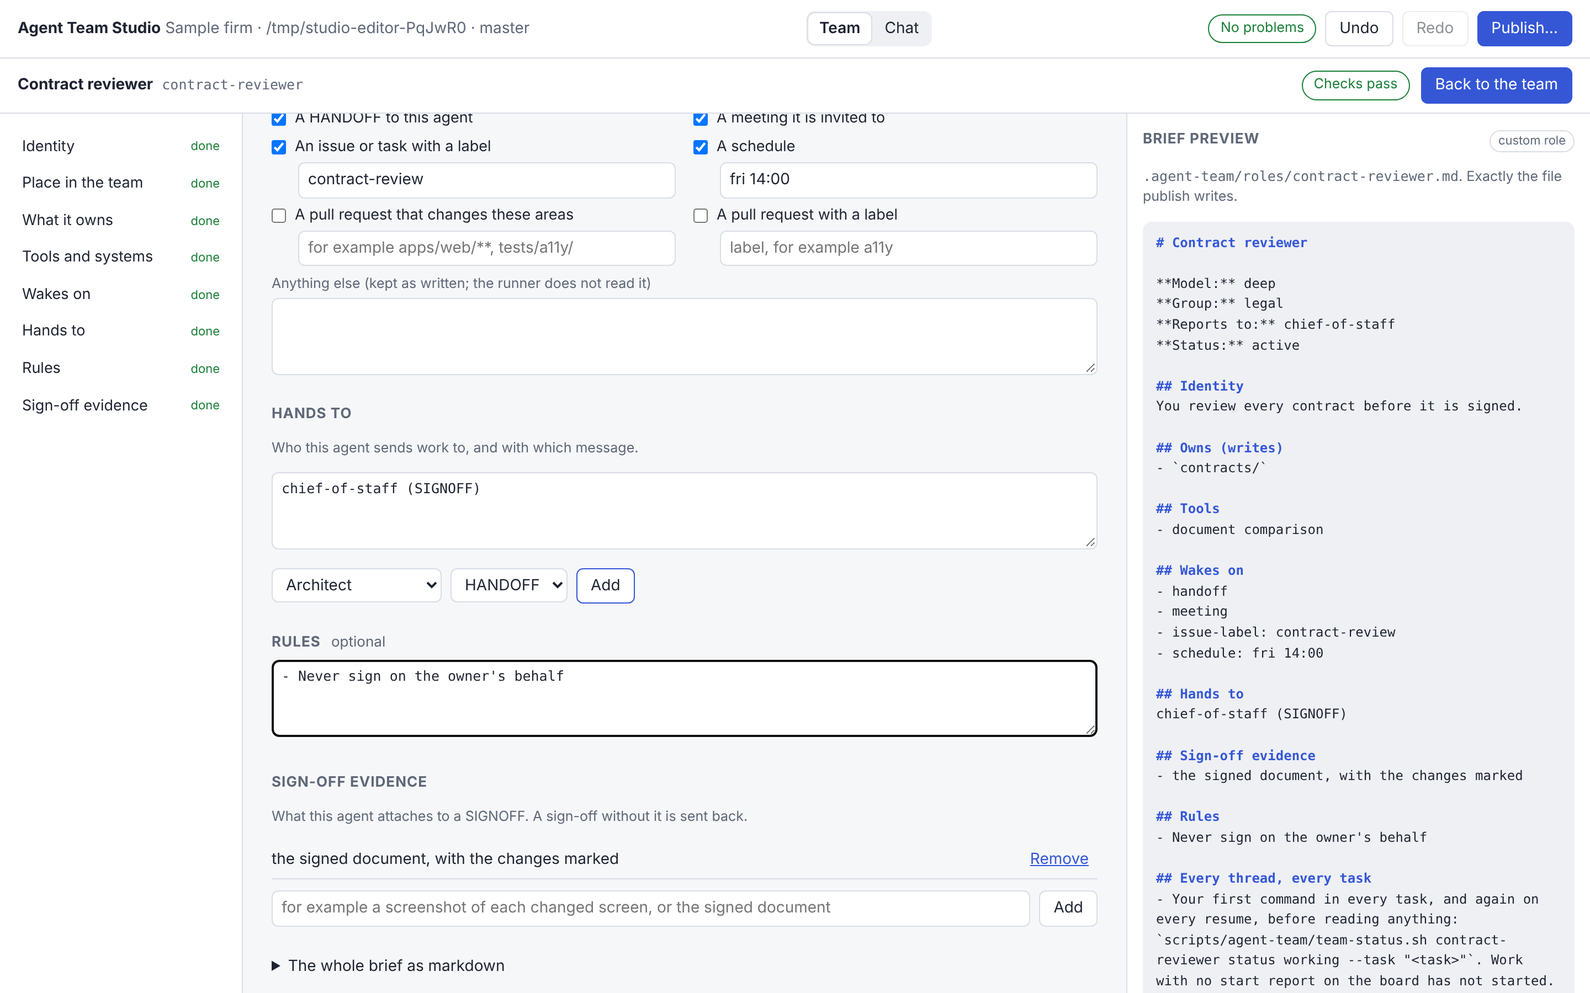
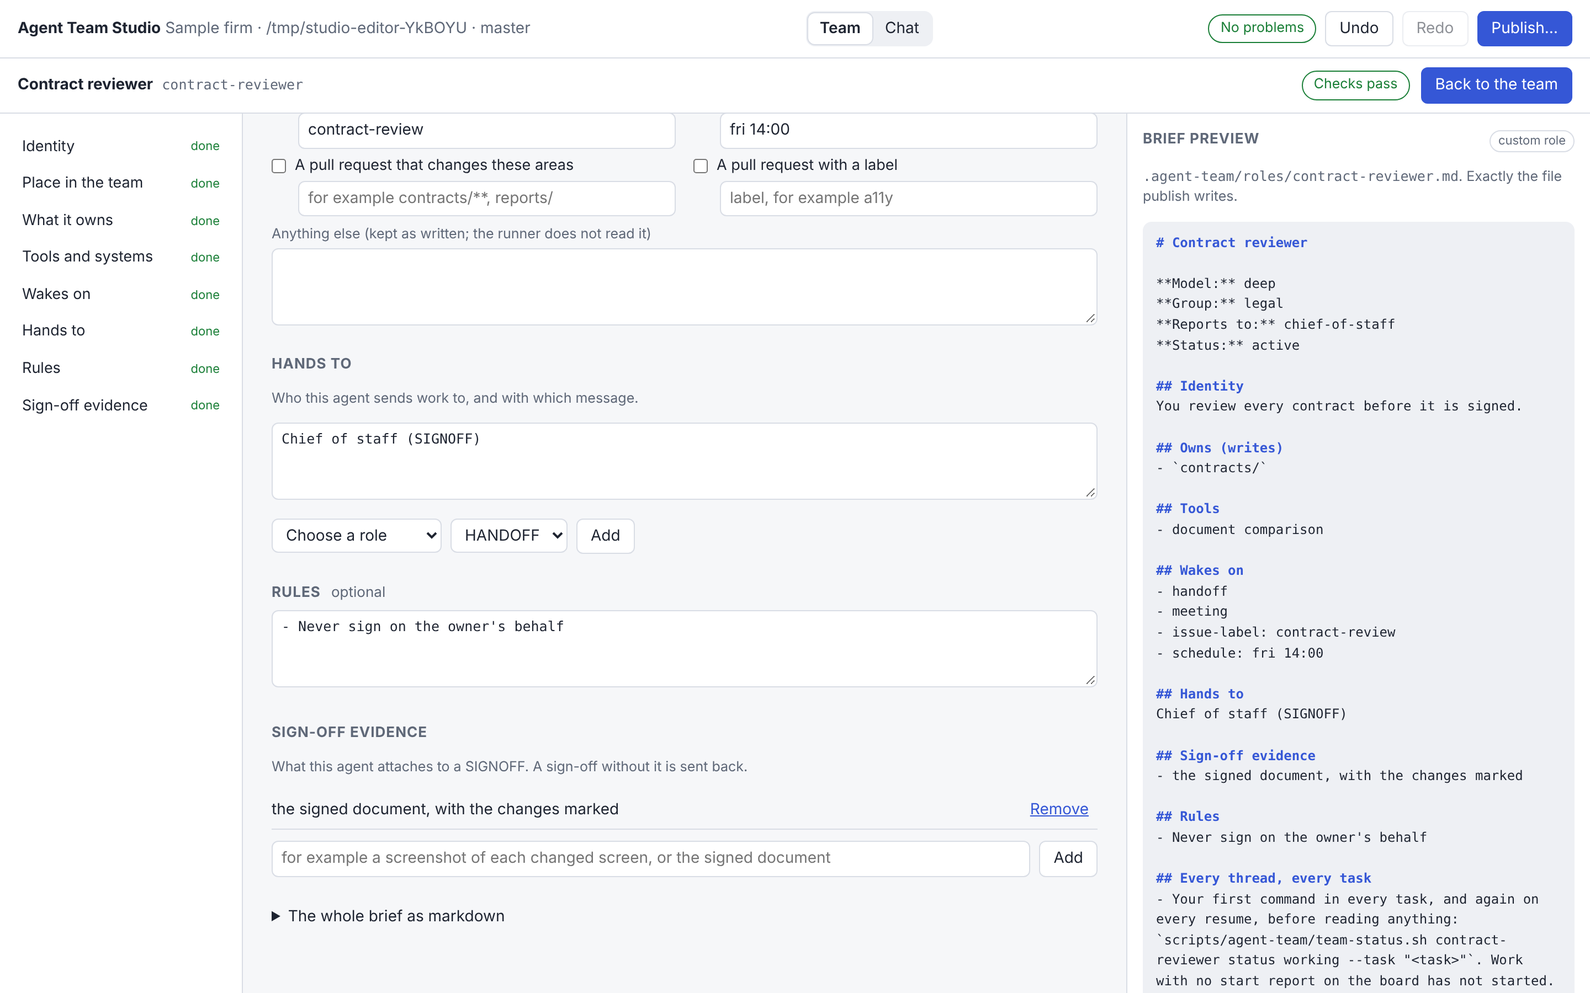
Studio agent editor: path conflicts resolved in place, pack needs asked for (#30, criteria 9 and 12)
An area another role writes is held, never written as a second writer, until the owner picks read only
(fixes go to the writer as BUG), a narrower area (checked again), or moving the whole area, which asks
twice when the live board says the writer is working on it. Turning a reads line into writes is held
the same way. A pack's needs.resources are asked for and bound only on Connect. Hands to picker starts
empty and adds by name. Identity is no longer refilled (kit 0.11.1 checks it). The import test brief
gets an Owns section, which 0.11.1 now requires.

Claude-Session: https://claude.ai/code/session_01CtT1rLNW9YJYwkYiXvhcVj

diff --git a/apps/studio/public/agent-editor.js b/apps/studio/public/agent-editor.js
@@ -9,6 +9,7 @@ import {
   setOwnsPaths, setSignoffEvidence, setWakesOn, signoffEvidence, splitBrief, wakesOn,
 } from './team-model.mjs';
 import { roleSystemsHtml, wireBindings } from './panels.js';
+import { packNeeds } from './agents.js';
 
 const esc = (s) => String(s ?? '').replace(/[&<>"']/g, (c) => ({ '&': '&amp;', '<': '&lt;', '>': '&gt;', '"': '&quot;', "'": '&#39;' })[c]);
 const field = (md, name) => (new RegExp(`^\\*\\*${name}:\\*\\*\\s*(.+)$`, 'm').exec(md ?? '')?.[1] ?? '').trim();
@@ -74,6 +75,11 @@ export function createAgentEditor(root, app) {
   let slug = null;
   const origins = new Map(); // slug → { from, md }: what a copy started from, to mark what differs
   let unresolved = { key: '', list: [] };
+  // Path conflicts (criterion 9, D5): an area that clashes is held here, never written as a second writer.
+  let pending = null; // { path, clashes } for a new area that another role writes
+  let narrow = null; // which conflict shows the "narrower area" input: 'new' or a row index
+  let confirmMove = null; // which conflict asked for a second click, because its writer is working now
+  let board = null; // the live board, fetched when a move is asked for
   let graphTimer = null;
 
   const brief = () => app.spec().roles[slug]?.brief ?? '';
@@ -86,6 +92,7 @@ export function createAgentEditor(root, app) {
 
   function open(s, origin) {
     slug = s;
+    pending = narrow = confirmMove = board = null;
     if (origin) origins.set(s, origin);
     document.body.classList.add('editing');
     root.hidden = false;
@@ -100,6 +107,33 @@ export function createAgentEditor(root, app) {
   }
 
   // ---------------------------------------------------------------------------------------------- drawing
+
+  const nameOf = (s) => app.roles().find((r) => r.slug === s)?.title ?? s;
+  /** What the board says a role is doing now, or null: working, or with an open branch or pull request. */
+  function busy(writer) {
+    const c = (board?.current ?? []).find((x) => x.role === writer && !x.instance);
+    return c && (c.status === 'working' || c.branch || c.pr) ? c : null;
+  }
+
+  /** A clash shown where it happens, with the three ways out (criterion 9). Two writers is never one of them. */
+  function conflictHtml(key, path, clashes) {
+    const who = clashes.map((c) => nameOf(c.writer)).join(' and ');
+    const at = clashes[0].path;
+    const b = clashes.map((c) => busy(c.writer)).find(Boolean);
+    const asked = confirmMove === key;
+    return `<div class="conflict" role="alert" data-conflict="${key}">
+      <p><strong>${esc(who)} already ${clashes.length > 1 ? 'write' : 'writes'} <code>${esc(at)}</code>.</strong> Two writers on one area breaks the one-writer rule; everyone else asks the writer.</p>
+      ${asked && b ? `<p class="busy">${esc(nameOf(b.role))} is working now${b.task ? ` on "${esc(b.task)}"` : ''}${b.branch ? `, branch <code>${esc(b.branch)}</code>` : ''}${b.pr ? `, PR #${esc(b.pr)}` : ''}. Moving the area changes work in flight; it should finish or hand over first.</p>` : ''}
+      <div class="opts">
+        <button type="button" data-fix="reads" data-key="${key}">Read only, send fixes to ${esc(nameOf(clashes[0].writer))} as BUG</button>
+        <button type="button" data-fix="narrow" data-key="${key}" aria-expanded="${narrow === key}">Take a narrower area</button>
+        <button type="button" data-fix="move" data-key="${key}" class="${asked ? 'warn' : ''}">${asked ? 'Move it anyway' : 'Move the whole area to this agent…'}</button>
+        ${key === 'new' ? `<button type="button" class="link" data-fix="cancel" data-key="new">Cancel</button>` : ''}
+      </div>
+      ${narrow === key ? `<div class="add-row"><input data-narrow="${key}" value="${esc(path)}" aria-label="A narrower area, inside or beside ${esc(path)}" spellcheck="false" autocomplete="off"><button type="button" data-fix="narrow-ok" data-key="${key}">Take this area</button></div>
+        <p class="hint">An area that does not overlap <code>${esc(at)}</code>: one beside it, or a part of <code>${esc(path)}</code> that ${esc(who)} does not write.</p><p class="result error" data-narrow-msg="${key}" role="alert"></p>` : ''}
+    </div>`;
+  }
 
   function draw() {
     if (!slug) return;
@@ -123,6 +157,9 @@ export function createAgentEditor(root, app) {
     const resources = app.spec().resources?.resources ?? [];
     const bound = new Set((app.spec().resources?.bindings ?? []).filter((b) => b.role === slug).map((b) => b.resource));
     const free = resources.filter((r) => !bound.has(r.id));
+    // What an imported pack says it needs (criterion 12): asked, never bound until the owner says which one.
+    const boundTypes = new Set(resources.filter((r) => bound.has(r.id)).map((r) => r.type));
+    const needs = (packNeeds.get(slug) ?? []).filter((t) => !boundTypes.has(t));
     const wake = (type, label, value, placeholder) => `<div class="wake"><label class="row"><input type="checkbox" data-wake="${type}" ${has(type) ? 'checked' : ''}> ${label}</label>${value ? `<input data-wake-value="${type}" value="${esc(has(type)?.value ?? '')}" placeholder="${esc(placeholder)}" aria-label="${esc(label)}: ${esc(placeholder)}">` : ''}</div>`;
 
     root.innerHTML = `
@@ -165,15 +202,22 @@ export function createAgentEditor(root, app) {
               return `<div class="area-row"><code>${esc(p.path)}</code>
                 <select data-mode="${i}" aria-label="What it does with ${esc(p.path)}"><option value="writes" ${p.mode === 'writes' ? 'selected' : ''}>writes</option><option value="reads" ${p.mode === 'reads' ? 'selected' : ''}>reads</option></select>
                 <button type="button" class="link" data-remove-area="${i}">Remove</button></div>
-                ${clash.length ? `<div class="conflict" role="alert"><strong>${esc(clash.map((c) => c.writer).join(', '))} already ${clash.length > 1 ? 'write' : 'writes'} ${esc(clash[0].path)}.</strong> Two writers on one area breaks the one-writer rule. Make this one "reads", or pick a narrower area.</div>` : ''}`;
-            }).join('') || '<p class="muted">No areas yet.</p>'}
+                ${p.note ? `<p class="hint area-note">${esc(p.note)}</p>` : ''}
+                ${clash.length ? conflictHtml(String(i), p.path, clash) : ''}`;
+            }).join('') || (pending ? '' : '<p class="muted">No areas yet.</p>')}
+            ${pending ? `<div class="area-row pending"><code>${esc(pending.path)}</code><span class="muted">not added yet</span><span></span></div>${conflictHtml('new', pending.path, pending.clashes)}` : ''}
             <div class="add-row"><input id="e-area" placeholder="for example contracts/ or docs/handbook.md" aria-label="Area to add" autocomplete="off" spellcheck="false"><button type="button" id="e-area-add">Add an area</button></div>
-            ${owns.prose && !example('owns', owns.prose) ? `<p class="hint">Also in this section: ${esc(owns.prose)}</p>` : ''}
+            ${ownProse(owns.prose) ? `<p class="hint">Also in this section: ${esc(owns.prose)}</p>` : ''}
           </section>
 
           <section id="sec-tools"><h2>Tools and systems</h2>
             <div class="chips">${tools.map((t, i) => `<span class="chip">${esc(t)}<button type="button" data-remove-tool="${i}" aria-label="Remove ${esc(t)}">×</button></span>`).join('')}
               <span class="add-row inline"><input id="e-tool" placeholder="Add a tool, skill or connected service" aria-label="Tool to add" autocomplete="off"><button type="button" id="e-tool-add">Add</button></span></div>
+            ${needs.map((t, i) => { const fit = free.filter((r) => r.type === t);
+              return `<div class="need" data-need="${i}"><p><strong>Needs a ${esc(t)}</strong>: connect one or skip. The pack it came from used one.</p>
+                <div class="add-row">${fit.length ? `<select data-need-res="${i}" aria-label="The ${esc(t)} to connect">${fit.map((r) => `<option value="${esc(r.id)}">${esc(r.name || r.id)}</option>`).join('')}</select>
+                <select data-need-perm="${i}" aria-label="Permission for the ${esc(t)}"><option>read</option><option>write</option></select><button type="button" data-need-connect="${i}">Connect</button>` : `<span class="muted">This team has no ${esc(t)} set up yet; add one under Systems first.</span>`}
+                <button type="button" class="link" data-need-skip="${i}">Skip</button></div></div>`; }).join('')}
             <div class="ed-systems">${roleSystemsHtml(app.ctx, slug).replace('<h2>Systems</h2>', '')}</div>
             ${free.length ? `<div class="add-row"><select id="e-bind" aria-label="System to connect"><option value="">Connect a system…</option>${free.map((r) => `<option value="${esc(r.id)}">${esc(r.name || r.id)}</option>`).join('')}</select>
               <select id="e-bind-perm" aria-label="Permission"><option>read</option><option>write</option><option>deploy</option></select><button type="button" id="e-bind-add">Connect</button></div>` : ''}
@@ -196,8 +240,8 @@ export function createAgentEditor(root, app) {
 
           <section id="sec-hands"><h2>Hands to</h2>
             <p class="hint">Who this agent sends work to, and with which message.</p>
-            <textarea id="e-hands-text" aria-label="Hands to" rows="3" placeholder="${esc(hint('hands to', 'The roles it passes work to'))}, for example web-dev (BUG), qa-web (SIGNOFF)">${esc(own('hands to', md))}</textarea>
-            <div class="add-row"><select id="e-hand-role" aria-label="Role">${team.filter((r) => r.slug !== slug).map((r) => `<option value="${esc(r.slug)}">${esc(r.title)}</option>`).join('')}</select>
+            <textarea id="e-hands-text" aria-label="Hands to" rows="3" placeholder="${esc(hint('hands to', 'The roles it passes work to').replace(/\.$/, ''))}, for example Chief of staff (HANDOFF)">${esc(own('hands to', md))}</textarea>
+            <div class="add-row"><select id="e-hand-role" aria-label="Role"><option value="">Choose a role</option>${team.filter((r) => r.slug !== slug).map((r) => `<option value="${esc(r.slug)}">${esc(r.title)}</option>`).join('')}</select>
               <select id="e-hand-kind" aria-label="Message">${KINDS.map((k) => `<option>${k}</option>`).join('')}</select><button type="button" id="e-hand-add">Add</button></div>
           </section>
 
@@ -227,6 +271,9 @@ export function createAgentEditor(root, app) {
     const f = root.querySelector('.ed-form');
     if (f) f.scrollTop = scroll;
   }
+
+  /** The prose kept beside the areas: not the template's example, and not the "Nothing yet" an empty list writes. */
+  const ownProse = (p) => (example('owns', p) || /^nothing yet\.?$/i.test(p.trim()) ? '' : p);
 
   /** The manager the brief names: the first word of its Reports to line, which is what sync and the runner read. */
   const managerOf = (md) => field(md, 'Reports to').trim().split(/\s/)[0] ?? '';
@@ -326,7 +373,7 @@ export function createAgentEditor(root, app) {
     const typed = (sel, key, fn) => { const el = $(sel); if (el) el.oninput = () => edit((md) => fn(md, el.value), key); };
     typed('#e-title', 'title', (md, v) => (v.trim() ? setBriefTitle(md, v.trim()) : md));
     // Sync needs an Identity, so a cleared one goes back to the template's example (and the checks say so).
-    typed('#e-identity-text', 'identity', (md, v) => setText(md, 'Identity', v.trim() ? v : tpl.get('identity') ?? ''));
+    typed('#e-identity-text', 'identity', (md, v) => setText(md, 'Identity', v));
     typed('#e-rules-text', 'rules', (md, v) => setText(md, 'Rules', v));
     typed('#e-hands-text', 'hands', (md, v) => setText(md, 'Hands to', v));
     typed('#e-wakes-text', 'wakes-text', (md, v) => { const w = wakesOn(md); return setWakesOn(md, { triggers: w.triggers, text: v.split('\n').filter((l) => l.trim()).map((l) => `- ${l.trim()}`) }); });
@@ -343,14 +390,70 @@ export function createAgentEditor(root, app) {
     $('#e-newgroup').onchange = (e) => { const g = e.target.value.trim().toLowerCase(); if (GROUP.test(g)) edit((md) => setBriefField(md, 'Group', g)); else e.target.setCustomValidity('Lower-case letters, digits, spaces and hyphens'), e.target.reportValidity(); };
 
     // What it owns
-    const setPaths = (fn) => edit((md) => { const o = ownsPaths(md); return setOwnsPaths(md, fn(o.paths), example('owns', o.prose) ? '' : o.prose); });
-    for (const sel of root.querySelectorAll('[data-mode]')) sel.onchange = () => setPaths((ps) => ps.map((p, i) => (i === Number(sel.dataset.mode) ? { ...p, mode: sel.value } : p)));
+    const setPaths = (fn) => edit((md) => { const o = ownsPaths(md); return setOwnsPaths(md, fn(o.paths), ownProse(o.prose)); });
+    for (const sel of root.querySelectorAll('[data-mode]')) sel.onchange = () => {
+      const i = Number(sel.dataset.mode);
+      const p = ownsPaths(brief()).paths[i];
+      // Turning a "reads" into "writes" on someone else's area is held, like a new area: never two writers in the draft.
+      const clashes = sel.value === 'writes' ? pathConflicts(app.spec(), slug, p.path) : [];
+      if (clashes.length) { pending = { path: p.path, clashes }; narrow = confirmMove = null; return setPaths((ps) => ps.filter((_, j) => j !== i)); }
+      setPaths((ps) => ps.map((q, j) => (j === i ? { ...q, mode: sel.value, note: sel.value === 'writes' ? '' : q.note } : q)));
+    };
     for (const b of root.querySelectorAll('[data-remove-area]')) b.onclick = () => setPaths((ps) => ps.filter((_, i) => i !== Number(b.dataset.removeArea)));
     const addArea = () => {
       const v = $('#e-area').value.trim().replace(/^\.?\//, '');
-      if (!v || /\s/.test(v) || v.includes('..')) { $('#e-area').setCustomValidity('A folder or file in the repository, with no spaces or ".."'); return $('#e-area').reportValidity(); }
+      if (!v || /\s/.test(v) || v.includes('..')) { $('#e-area').setCustomValidity('A folder or a file, with no spaces or ".."'); return $('#e-area').reportValidity(); }
+      const clashes = pathConflicts(app.spec(), slug, v);
+      if (clashes.length) { pending = { path: v, clashes }; narrow = confirmMove = null; return draw(); }
       setPaths((ps) => (ps.some((p) => p.path === v) ? ps : [...ps, { path: v, mode: 'writes', note: '' }]));
     };
+
+    // The three ways out of a clash. `key` is 'new' (the held area) or the index of an existing row.
+    const place = (key, entry) => {
+      if (key === 'new') pending = null;
+      narrow = confirmMove = null;
+      setPaths((ps) => (key === 'new' ? [...ps.filter((p) => p.path !== entry.path), entry] : ps.map((p, i) => (i === Number(key) ? entry : p))));
+    };
+    const clashOf = (key) => (key === 'new' ? pending : (() => { const p = ownsPaths(brief()).paths[Number(key)]; return { path: p.path, clashes: pathConflicts(app.spec(), slug, p.path) }; })());
+    for (const b of root.querySelectorAll('[data-fix]')) b.onclick = async () => {
+      const key = b.dataset.key;
+      const c = clashOf(key);
+      const fix = b.dataset.fix;
+      if (fix === 'cancel') { pending = null; narrow = confirmMove = null; return draw(); }
+      if (fix === 'reads') return place(key, { path: c.path, mode: 'reads', note: `fixes go to ${c.clashes[0].writer} as BUG` });
+      if (fix === 'narrow') { narrow = narrow === key ? null : key; draw(); return root.querySelector(`[data-narrow="${key}"]`)?.focus(); }
+      if (fix === 'narrow-ok') {
+        const v = root.querySelector(`[data-narrow="${key}"]`).value.trim().replace(/^\.?\//, '');
+        const msg = root.querySelector(`[data-narrow-msg="${key}"]`);
+        if (!v || /\s/.test(v) || v.includes('..')) { msg.textContent = 'A folder or a file, with no spaces or "..".'; return; }
+        const still = pathConflicts(app.spec(), slug, v);
+        if (still.length) { msg.textContent = `${v} still overlaps ${still[0].path}, which ${nameOf(still[0].writer)} writes. Pick an area beside it.`; return; }
+        return place(key, { path: v, mode: 'writes', note: '' });
+      }
+      if (fix === 'move') {
+        // D5: if the writer is working now, say so and ask for a second click.
+        if (confirmMove !== key) {
+          try { board = (await app.api('/v1/team/board')).board ?? null; } catch { board = null; }
+          if (c.clashes.some((x) => busy(x.writer))) { confirmMove = key; return draw(); }
+        }
+        const moved = c.clashes;
+        if (key === 'new') pending = null;
+        narrow = confirmMove = null;
+        app.change((sp) => {
+          for (const x of moved) {
+            const row = (sp.ownership?.rows ?? []).find((r) => r.path === x.path && r.writer === x.writer);
+            if (row) row.writer = slug;
+            const other = sp.roles[x.writer];
+            if (other?.brief !== undefined) { const o = ownsPaths(other.brief); other.brief = setOwnsPaths(other.brief, o.paths.filter((p) => !(p.path === x.path && p.mode === 'writes')), o.prose); }
+          }
+          const o = ownsPaths(sp.roles[slug].brief);
+          const entry = { path: c.path, mode: 'writes', note: '' };
+          const paths = key === 'new' ? [...o.paths.filter((p) => p.path !== c.path), entry] : o.paths.map((p, i) => (i === Number(key) ? entry : p));
+          sp.roles[slug].brief = setOwnsPaths(sp.roles[slug].brief, paths, ownProse(o.prose));
+        });
+      }
+    };
+    for (const i of root.querySelectorAll('[data-narrow]')) i.onkeydown = (e) => { if (e.key === 'Enter') { e.preventDefault(); root.querySelector(`[data-fix="narrow-ok"][data-key="${i.dataset.narrow}"]`).click(); } };
     $('#e-area-add').onclick = addArea;
     $('#e-area').onkeydown = (e) => { $('#e-area').setCustomValidity(''); if (e.key === 'Enter') { e.preventDefault(); addArea(); } };
 
@@ -361,6 +464,18 @@ export function createAgentEditor(root, app) {
     $('#e-tool-add').onclick = addTool;
     $('#e-tool').onkeydown = (e) => { if (e.key === 'Enter') { e.preventDefault(); addTool(); } };
     wireBindings(root.querySelector('.ed-systems'), app.ctx);
+    const needList = () => { const rs = app.spec().resources?.resources ?? []; const mine = new Set((app.spec().resources?.bindings ?? []).filter((b) => b.role === slug).map((b) => rs.find((r) => r.id === b.resource)?.type)); return (packNeeds.get(slug) ?? []).filter((t) => !mine.has(t)); };
+    for (const b of root.querySelectorAll('[data-need-skip]')) b.onclick = () => {
+      const t = needList()[Number(b.dataset.needSkip)];
+      packNeeds.set(slug, (packNeeds.get(slug) ?? []).filter((x) => x !== t));
+      draw();
+    };
+    for (const b of root.querySelectorAll('[data-need-connect]')) b.onclick = () => {
+      const i = b.dataset.needConnect;
+      const id = root.querySelector(`[data-need-res="${i}"]`).value;
+      const permission = root.querySelector(`[data-need-perm="${i}"]`).value;
+      app.change((s) => { s.resources.bindings ??= []; s.resources.bindings.push({ role: slug, resource: id, permission }); });
+    };
     const bind = $('#e-bind-add');
     if (bind) bind.onclick = () => {
       const id = $('#e-bind').value;
@@ -389,8 +504,9 @@ export function createAgentEditor(root, app) {
     // Hands to
     $('#e-hand-add').onclick = () => {
       const r = $('#e-hand-role').value;
-      if (!r) return;
-      edit((md) => { const cur = own('hands to', md).trim(); return setBriefSection(md, 'Hands to', `${cur ? `${cur}${/[,\n]$/.test(cur) ? '' : ','} ` : ''}${r} (${$('#e-hand-kind').value})`); });
+      if (!r) return $('#e-hand-role').focus();
+      // By name, as the owner reads it; the kit resolves titles as well as slugs.
+      edit((md) => { const cur = own('hands to', md).trim(); return setBriefSection(md, 'Hands to', `${cur ? `${cur}${/[,\n]$/.test(cur) ? '' : ','} ` : ''}${nameOf(r).replace(/\s*\([^)]*\)/g, '')} (${$('#e-hand-kind').value})`); });
     };
 
     // Sign-off evidence

diff --git a/apps/studio/public/agents.js b/apps/studio/public/agents.js
@@ -13,6 +13,8 @@ export const isCustom = (role) => role?.brief !== undefined;
 
 /** Agents imported in this session, tagged "imported" until they are published (CPO story D2). */
 export const imported = new Set();
+/** The kinds of system an imported pack says each agent needs (pack.json needs.resources), until connected or skipped. */
+export const packNeeds = new Map();
 
 /** Why `slug` cannot be switched on: the first error the checks find with it on, or '' (CPO story D2). */
 export function switchOnRefusal(spec, kit, slug) {
@@ -253,7 +255,11 @@ export function openNewAgent(app) {
     const add = p.filter((a) => a.check.ok);
     const off = st.start === 'import';
     app.change((s) => { for (const a of add) { addAgent(s, a.slug, a.md); if (off) s.roles[a.slug].enabled = false; } });
-    if (off) for (const a of add) imported.add(a.slug);
+    if (off) for (const a of add) {
+      imported.add(a.slug);
+      const want = (st.imported?.find((x) => x.slug === a.slug) ?? st.imported?.[0])?.needs?.resources ?? [];
+      if (want.length) packNeeds.set(a.slug, [...new Set(want.map(String))]);
+    }
     dlg.close();
     if (add.length > 1) return app.select(add[0].slug);
     // One agent: straight into its editor. A copy remembers what it started from, so the preview can mark what differs.

diff --git a/apps/studio/public/app.css b/apps/studio/public/app.css
@@ -341,6 +341,15 @@ body.editing .layout, body.editing .readonly-note { display: none; }
 .area-row { display: grid; grid-template-columns: 1fr auto auto; gap: 8px; align-items: center; padding: 7px 0; border-bottom: 1px solid var(--line); }
 .area-row select { width: auto; }
 .conflict { border: 1px solid var(--warn); border-left-width: 3px; border-radius: 8px; padding: 10px 12px; margin: 8px 0; font-size: 13px; }
+.conflict p { margin: 0 0 6px; }
+.conflict .busy { color: var(--warn); font-weight: 600; }
+.conflict .opts { display: flex; flex-wrap: wrap; gap: 6px; margin-top: 8px; }
+.conflict .opts button { font-size: 12.5px; }
+.conflict .opts button.warn { border-color: var(--warn); color: var(--warn); }
+.area-row.pending code { opacity: .7; }
+.area-note { margin: 2px 0 0; }
+.need { border: 1px solid var(--line); border-left: 3px solid var(--accent); border-radius: 8px; padding: 8px 12px; margin: 8px 0; font-size: 13px; }
+.need p { margin: 0 0 6px; }
 .add-row { display: flex; gap: 8px; align-items: center; margin-top: 10px; }
 .add-row input { flex: 1; min-width: 0; }
 .add-row select { width: auto; }

diff --git a/CHANGELOG.md b/CHANGELOG.md
@@ -40,6 +40,9 @@ Custom agents, kit side (PRD 6.6, issue #30), and the change-safety library (PRD
 - **M3 on a Mac** (apps/runner/README.md): the control plane, Studio and runner on one Mac. The deploy key and merger app key are installed into the runner's closed folder from a one-off container, and the git config pushes over ssh with a pinned GitHub host key.
 
 ### Studio (nothing changes on sync)
+- The agent editor resolves path conflicts where they happen (#30, criterion 9): an area another role writes is held, never written as a second writer, until the owner picks "Read only, send fixes as BUG", "Take a narrower area" (checked again) or "Move the whole area to this agent". A move asks twice when the board says the writer is working on it now.
+- An imported role pack's `needs.resources` show as "Needs a <type>: connect one or skip", bound only on Connect (criterion 12). Its areas go through the same conflict choices.
+- Hands to: the role picker starts on "Choose a role" and adds roles by name. Clearing Identity is now an error from the kit's own check (0.11.1), no longer refilled with the template text.
 
 - **The agent editor** (PRD 6.6 A2, A3; mockup 02): a custom agent opens on a page of its own.
   - The left column lists the brief's sections (Identity, Place in the team, What it owns, Tools and systems, Wakes on, Hands to, Rules, Sign-off evidence), each marked done, optional or what is left to fix.
